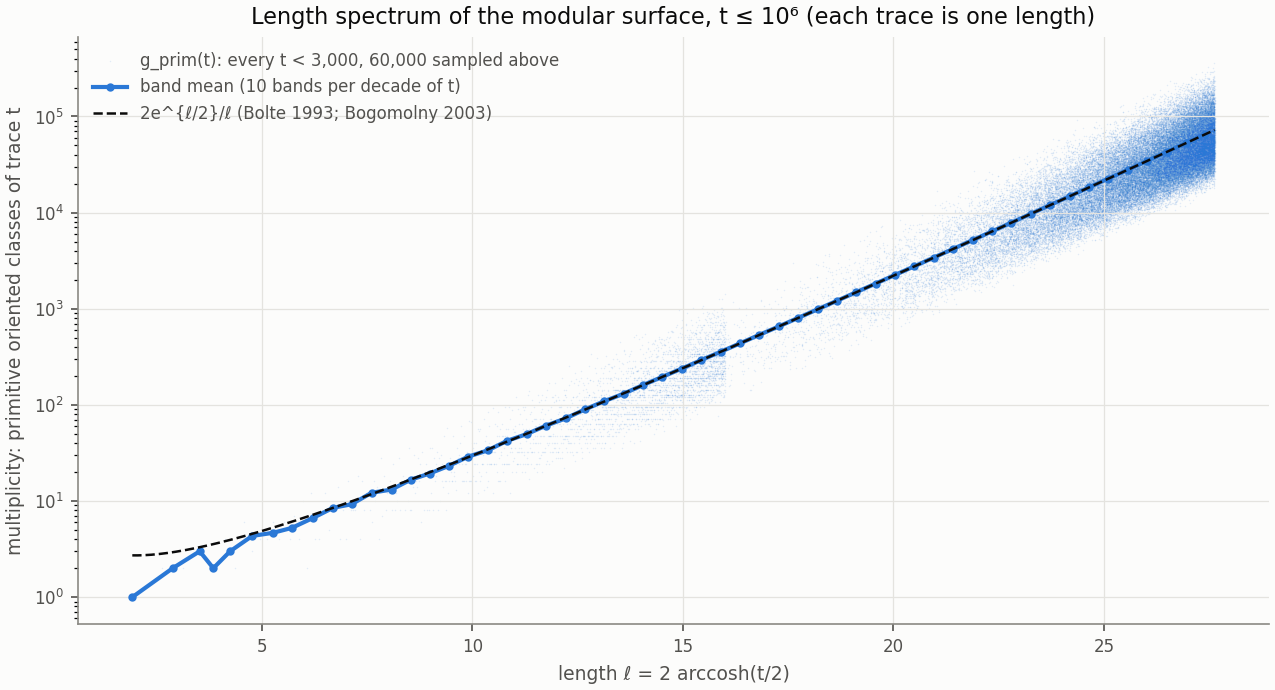
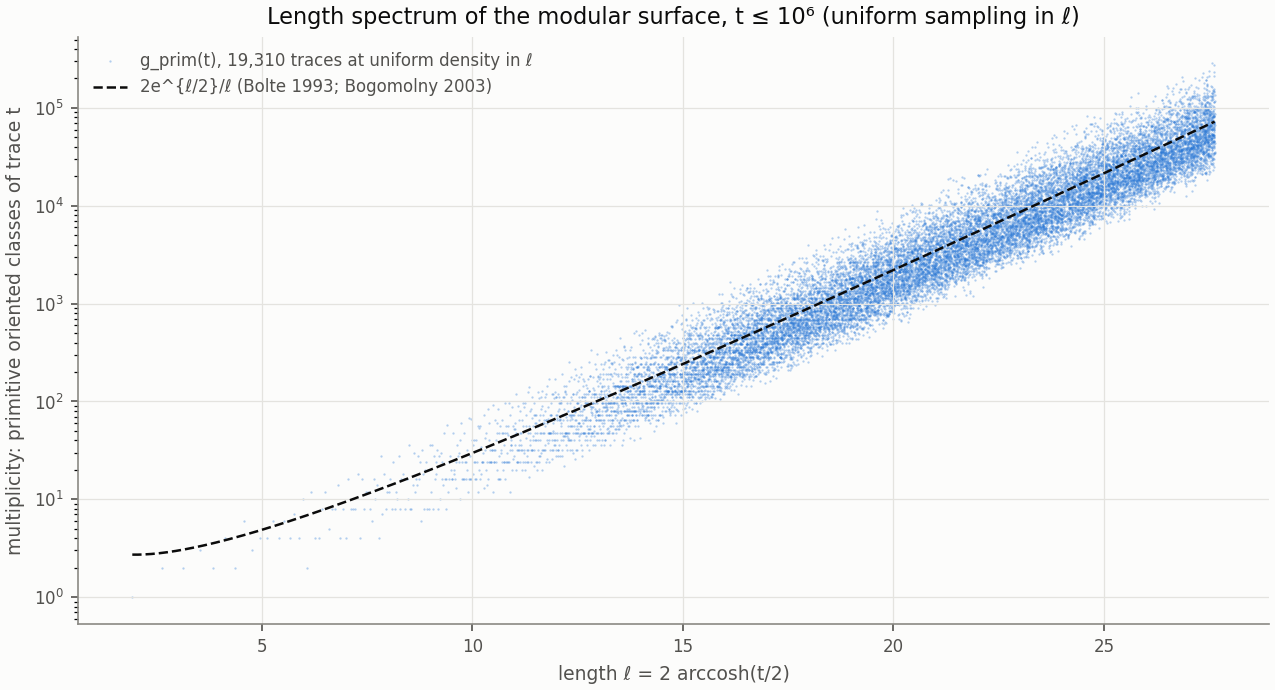
specarith/geo1: Step 0b for the Peter-correlation seal (agent transcription of Peter 2002 from the LaTeX source, theorem block confirmed verbatim here; BLS/Bogomolny odd-prime-power prefactor misprint noted; SY 25/36 verified, Kaneko 2/3 preprint only). Step 2 additions (descriptive): PGT remainder 

diff --git a/specarith/geo1/step0b_scripts/check_local.py b/specarith/geo1/step0b_scripts/check_local.py
@@ -1,0 +1,76 @@
+# Cross-check of local factors A_r(q), q = prime power, by an independent route:
+# BLS (CMP 176) eq: alpha(q;r) = q |M_{q,r}| / |M_q|, M_q = SL2(Z/q), M_{q,r} = trace r.
+# beta(a,q) = q^{-1} sum_r alpha(q;r) e(a r/q);  A_r(q) = sum_{(a,q)=1} |beta(a,q)|^2 e(a r / q).
+# Compared against Peter's closed form (theorem, Intro) and BLS's closed form (oddprpower).
+import numpy as np, sys
+from fractions import Fraction
+def trace_counts(q):
+    # count SL2(Z/q) elements by trace, via (a,d) and counting (b,c) with bc = ad-1
+    cnt_bc = np.zeros(q, dtype=np.int64)          # number of (b,c) with b*c = m mod q
+    b = np.arange(q)
+    for bb in range(q):
+        np.add.at(cnt_bc, (bb*b) % q, 1)
+    tot = np.zeros(q, dtype=np.int64)
+    for a in range(q):
+        d = np.arange(q)
+        m = (a*d - 1) % q
+        np.add.at(tot, (a+d) % q, cnt_bc[m])
+    return tot
+def A_route(q):
+    t = trace_counts(q); M = t.sum()
+    alpha = q*t/M
+    r = np.arange(q)
+    from math import gcd
+    A = np.zeros(q)
+    for a in range(1,q+1):
+        if gcd(a,q)!=1: continue
+        beta = (alpha*np.exp(2j*np.pi*a*r/q)).sum()/q
+        A += (abs(beta)**2*np.exp(2j*np.pi*a*r/q)).real
+    return A
+def leg(x,p):
+    x%=p
+    if x==0: return 0
+    return 1 if pow(x,(p-1)//2,p)==1 else -1
+def A_peter(r,p,b):
+    if p>2:
+        if b==1:
+            s=sum(leg((n*n-4)*((n+r)**2-4),p) for n in range(p))
+            return (p*s-1)/(p*p-1)**2
+        pb=p**b; e=leg(-1,p)**b; pre=1/((p*p-1)**2*p**(3*b-4))
+        if r%pb==0: v=2*pb*(1-1/p)
+        elif r%(pb//p)==0: v=-2*p**(b-1)
+        elif (r-4)%pb==0 or (r+4)%pb==0: v=e*pb*(1-1/p)
+        elif (r-4)%(pb//p)==0 or (r+4)%(pb//p)==0: v=-e*p**(b-1)
+        else: v=0
+        return pre*v
+    else:
+        if b==1: return (1 if r%2==0 else -1)/9
+        if b==2: return (1 if r%4==0 else (-1 if r%4==2 else 0))/18
+        if b in (3,5): return 0.0
+        if b==4: return (1 if r%16==0 else (-1 if r%16==8 else 0))/(9*16)
+        pb=2**b; pre=1/(9*2**(2*b-4)); rr=r%pb
+        if rr==0: return 2*pre
+        if rr==pb//2: return -2*pre
+        if rr in ((4+pb//4)%pb, (-(4+pb//4))%pb): return pre
+        if rr in ((4+pb//4+pb//2)%pb, (-(4+pb//4+pb//2))%pb): return -pre
+        return 0.0
+def A_bls(r,p,n):   # odd p, n>=2, BLS eq (oddprpower)
+    pn=p**n; eps=-1 if (n%2==1 and p%4==3) else 1
+    pre=1/(p**(2*n)*(1-p**-2))
+    if r%pn==0: v=2*(1-1/p)
+    elif r%(pn//p)==0: v=-2/p
+    elif (r-4)%pn==0 or (r+4)%pn==0: v=eps*(1-1/p)
+    elif (r-4)%(pn//p)==0 or (r+4)%(pn//p)==0: v=-eps/p
+    else: v=0
+    return pre*v
+if __name__=="__main__":
+    for p,bmax in [(2,7),(3,4),(5,3),(7,2),(11,2),(13,2)]:
+      for b in range(1,bmax+1):
+          q=p**b; A=A_route(q)
+          dP=max(abs(A[r]-A_peter(r,p,b)) for r in range(q))
+          line=f"p={p} b={b} q={q}: max|route-Peter|={dP:.2e}"
+          if p>2 and b>=2:
+              dB=max(abs(A[r]-A_bls(r,p,b)) for r in range(q))
+              ratio=A[0]/A_bls(0,p,b)
+              line+=f"  max|route-BLS|={dB:.2e}  route/BLS at r=0: {ratio:.6f} (1/(1-p^-2)={1/(1-p**-2):.6f})"
+          print(line); sys.stdout.flush()

diff --git a/specarith/geo1/step0b_scripts/gamma_pred.py b/specarith/geo1/step0b_scripts/gamma_pred.py
@@ -1,0 +1,32 @@
+# Peter's Euler product gamma(r)+1 = prod_p (1 + sum_{b>=1} A_r(p^b)), evaluated numerically.
+import numpy as np, sys
+sys.path.insert(0, sys.argv[1])
+from check_local import A_peter
+P=int(sys.argv[2]); R=list(range(0,int(sys.argv[3])+1))
+sieve=np.ones(P+1,bool); sieve[:2]=False
+for i in range(2,int(P**.5)+1):
+    if sieve[i]: sieve[i*i::i]=False
+primes=np.nonzero(sieve)[0]
+logprod={r:0.0 for r in R}
+for p in primes:
+    p=int(p)
+    if p>2:
+        n=np.arange(p,dtype=np.int64)
+        chi=np.full(p,-1,np.int64); chi[(n*n)%p]=1; chi[0]=0
+        base=(n*n-4)%p
+    for r in R:
+        if p==2:
+            s=sum(A_peter(r,2,b) for b in range(1,64))
+        else:
+            v=(base*(((n+r)*(n+r)-4)%p))%p
+            S=int(chi[v].sum())
+            s=(p*S-1)/(p*p-1)**2
+            b=2
+            while True:
+                pb1=p**(b-1)
+                if r!=0 and pb1>abs(r)+4: break
+                if r==0 and p**(-2*b)<1e-20: break
+                s+=A_peter(r,p,b); b+=1
+        logprod[r]+=np.log1p(s)
+for r in R:
+    print(r, f"{np.expm1(logprod[r]):.6f}")

diff --git a/specarith/geo1/step0b_scripts/check_kloost.py b/specarith/geo1/step0b_scripts/check_kloost.py
@@ -1,0 +1,20 @@
+import numpy as np, sys
+sys.path.insert(0, sys.argv[1])
+from check_local import trace_counts
+from math import gcd
+def primes_of(q):
+    s=set(); n=q; d=2
+    while d*d<=n:
+        while n%d==0: s.add(d); n//=d
+        d+=1
+    if n>1: s.add(n)
+    return s
+for q in [2,3,4,5,6,8,9,12,15,16,25,27,30,32,49]:
+    t=trace_counts(q); alpha=q*t/t.sum(); r=np.arange(q); md=0
+    pf=np.prod([1-w**-2 for w in primes_of(q)])
+    for a in range(1,q):
+        if gcd(a,q)!=1: continue
+        beta=(alpha*np.exp(2j*np.pi*a*r/q)).sum()/q
+        K=sum(np.exp(2j*np.pi*(a*d+a*pow(d,-1,q))/q) for d in range(1,q) if gcd(d,q)==1)
+        md=max(md,abs(beta-K/(q*q*pf)))
+    print(q, f"{md:.2e}")

diff --git a/specarith/geo1/GEO1_STEP0B_PETER.md b/specarith/geo1/GEO1_STEP0B_PETER.md
@@ -1,0 +1,144 @@
+<!-- Provenance: Step 0b for the GEO1 Peter-correlation seal (Will, 2026-10-30). Drafted by a literature agent from
+the arXiv LaTeX sources; filed unedited below. Main-session check: Peter's theorem block (arXiv math/0104234 v1, e-print
+lines 156–200: g(n), α(n) = g(n) log n/n, α̃ = α − 1, γ(r) as the plain mean, the Euler product, A_r(p), A_r(p^b) for odd
+p, and A_r(2), A_r(4), A_r(8) = 0, A_r(16), A_r(32) = 0, A_r(2^b) for b ≥ 6) read verbatim: CONFIRMED as transcribed.
+The agent's check scripts are in step0b_scripts/ (they ran from its scratch directory). The γ(r) table is the agent's
+evaluation, to be reproduced independently by geo1_peter.py before use. -->
+
+# Peter (CMP 225, 2002) transcription, BLS comparison, and the PGT exponent
+
+Source read: the arXiv e-print LaTeX `ccg.tex` for math/0104234, **v1 only** (25 Apr 2001, the only version). The CMP version (DOI 10.1007/s002201000574; Crossref gives CMP 225(1), 171–189, 2002) was not read. Numbering below is reconstructed from the LaTeX counters (`\theequation` = section.eq, theorems numbered within section), so printed page numbers are not given. Downloads are in `/tmp/claude-1000/-home-combust-fmexplorer-criticality-tool--claude-worktrees-ph6-xp/a91f0f2e-c26b-4e53-81dc-2feedac9a4b5/scratchpad/lit_peter/`. Check scripts are in `/tmp/claude-1000/-home-combust-fmexplorer-criticality-tool--claude-worktrees-ph6-xp/a91f0f2e-c26b-4e53-81dc-2feedac9a4b5/scratchpad/peter_check/`.
+
+## Task 1: Peter
+
+### (a) Definitions (VERIFIED, §1 Introduction and §2)
+
+> "let $\HH$ be the complex upper half plane and $\Gamma:=\SL(2,\Z)$ … The closed geodesics on $F$ are in one-to-one correspondence to conjugacy classes of primitive hyperbolic elements in $\Gamma$. For $n\in\N$, $n>2$, let $g(n)$ be the number of closed geodesics on $F$ which correspond to primitive conjugacy classes with trace $n$. Set $\alpha(n):=g(n)\log n/n$. Then the function $\alpha$ has mean value $1$. Set $\tilde{\alpha}(n):=\alpha(n)-1$."
+
+- **Primitive only.** g(n) counts closed geodesics (primitive classes), with n > 2. Your summary α(n) = g(n) log n / n is **confirmed**: there is no extra normalising constant. M(α) = 1 is proved in §5 (Case 1: $\wh{\beta_{(p)}}(0)=1$).
+- **Class-number form**, eq. (2.1), `\label{1}`: $\alpha(n) = \frac{\log n}{n} \sum_{d:\,\tr(\eps_d)=n} h(d)$. This comes from Prop. 2.1 ([Sarnak 1982], Cor. 1.5): "the lengths of closed geodesics on $F$ are the numbers $2\log\eps_d$ with multiplicities $h(d)$". Here d runs over positive non-square discriminants. h(d) is the number of SL(2,ℤ)-classes of primitive forms of discriminant d (the narrow class number), $\eps_d=(u_d+v_d\sqrt d)/2$ is the fundamental solution of $u^2-dv^2=4$, and $\tr(\eps_d)=u_d$.
+- **INFERENCE: PSL and orientation.** Because g counts geodesics on F, ±P count once, so this is effectively PSL(2,ℤ) with |trace| = n. Because h(d) counts SL(2,ℤ)-classes of forms, geodesics are **oriented** (a geodesic and its reverse are counted separately).
+- Peter's text has a typo: it says $\cosh(l/2)=|\Tr P|$, but it should be $2\cosh(l/2)$. Bogomolny's notes use $|\mathrm{Tr}M|=2\cosh l_p/2$.
+- **INFERENCE: implementation freedom from Lemma 3.1 (`\label{102}`).** The lemma shows $\|\alpha-\beta\|_q=0$, with $\beta(n):=\sum_{d,v\ge1:\,dv^2=n^2-4}\frac1v L(1,\chi_d)$. Here β includes non-primitive classes (l ≥ 2) and the normalisation log ε / √(n²−4). The pointwise difference is $|\beta(n)-\alpha(n)|\ll n^{-1/2+\eps}$. So γ(r) is the same whether you use primitive classes or all classes, and log n/n or the exact normalisation.
+
+### (b) Main theorem (VERIFIED; unnumbered `theoremwithout`, §1)
+
+```latex
+For $r\in \N_0$, the limit
+\[ \gamma(r):=\lim_{N\to\infty} \frac{1}{N} \sum_{2<n\le N} \tilde{\alpha}(n)\tilde{\alpha}(n+r) \]
+exists. Its value is given by
+\[ \gamma(r)+1=\prod_p \Big( 1+\sum_{b\ge 1} A_r(p^b) \Big) , \]
+```
+
+- It is **α̃**, not α.
+- It is a plain unweighted Cesàro mean over 2 < n ≤ N.
+- The Euler product form you gave is **confirmed**.
+- The local factors are defined in §4 (end) as $A_r(p^b) := \sum_{1\le a\le p^b,\, p\nmid a} |\wh{\beta_{(p)}}(a/p^b)|^2 e^{2\pi iar/p^b}$.
+- The route is: α is limit periodic in every $\calD^q$ (Cor. 4.2), then Parseval (eq. (3.1), `\label{2}`) gives $\gamma(r)=\sum_{b\ge1}\sum_{(a,b)=1}|\wh\alpha(a/b)|^2e^{2\pi iar/b}-1$, and $\wh\alpha$ is multiplicative (Lemma 4.3).
+
+### (c) Local factors (VERIFIED, verbatim from the theorem)
+
+```latex
+where for a prime $p>2$ and $b\ge 2$, we have
+A_r(p) &= \frac{1}{(p^2-1)^2} \bigg( p\sum_{n\,\bmod\,p} \Big(\frac{(n^2-4)((n+r)^2-4)}{p}\Big)-1 \bigg),\\
+A_r(p^b) &= \frac{1}{(p^2-1)^2 \, p^{3b-4}} \left\{\begin{array}{ll}
+  2p^b(1-1/p) , & r\equiv 0\,(p^b) \\
+  -2p^{b-1} , & r\not\equiv 0\,(p^b),\, r\equiv 0\,(p^{b-1}) \\
+  \big(\frac{-1}{p}\big)^bp^b(1-1/p) , & r\equiv \pm 4\,(p^b) \\
+  -\big(\frac{-1}{p}\big)^bp^{b-1} , & r\not\equiv \pm 4\,(p^b),\, r\equiv\pm 4\, (p^{b-1}) \\
+  0 , & \text{otherwise} \end{array}\right\} .
+Furthermore, for $b\ge 6$, we have
+A_r(2) = \frac{1}{9}\{ 1, r\equiv 0\,(2);\ -1, r\equiv 1\,(2)\},\quad
+A_r(4) = \frac{1}{18}\{ 1, r\equiv 0\,(4);\ -1, r\equiv 2\,(4);\ 0, r\equiv 1\,(2)\},
+A_r(8)=0,\quad
+A_r(16) = \frac{1}{9\cdot 16}\{ 1, r\equiv 0\,(16);\ -1, r\equiv 8\,(16);\ 0, r\not\equiv 0\,(8)\},\quad
+A_r(32)=0,
+A_r(2^b) = \frac{1}{9\cdot 2^{2b-4}}\{ 2, r\equiv 0\,(2^b);\ -2, r\equiv 2^{b-1}\,(2^b);\
+  1, r\equiv\pm(4+2^{b-2})\,(2^b);\ -1, r\equiv\pm(4+2^{b-2}+2^{b-1})\,(2^b);\ 0, \text{otherwise}\}.
+```
+
+(The p = 2 `array` environments are condensed to braces here; the values and conditions are verbatim.)
+
+- The Legendre symbol is the ordinary one. §5 also uses $\sum_{n \bmod p}\big(\frac{n^2-4}{p}\big)=-1$, and finds that the counts of n mod p with $\chi_{n^2-4}(p)=+1$ and $-1$ are (p−3)/2 and (p−1)/2.
+- §5 gives, for c ≥ 2, $|\wh{\beta_{(p)}}(a/p^c)|=\frac{|1+(\frac{-1}{p})^c e^{-8\pi ia/p^c}|}{(p^2-1)p^{3c/2-2}}$. Then $A_r(p^c)=\frac{1}{(p^2-1)^2p^{3c-4}}\sum_{p\nmid a}e^{2\pi iar/p^c}\big(2+2(\frac{-1}{p})^c\cos\frac{8\pi a}{p^c}\big)$, which is two Ramanujan sums.
+- **p = 2 is stated, not derived.** Peter writes: "The calculation will only be done for $p>2$. The case $p=2$ is similar but somewhat more elaborate."
+- There is a harmless typo in §5 Case 4.1: cos(2πa/p^c) should be cos(4πa/p^c).
+- **Independent check (INFERENCE, my computation).** I computed A_r(q) a second way, from BLS's own formula: $\alpha(q;r)=q|M_{q,r}|/|M_q|$ (counting SL₂(ℤ/q) elements by trace), $\beta(a,q)=q^{-1}\sum_r\alpha(q;r)e(ar/q)$, $A_r(q)=\sum_{(a,q)=1}|\beta|^2e(ar/q)$. Peter's closed forms match to ≤ 2e-16 for every r and:
+  - q = 2^b, b = 1..7 (this covers the zeros at 8 and 32 and the b ≥ 6 rule);
+  - 3^b, b ≤ 4;
+  - 5^b, b ≤ 3;
+  - 7², 11², 13².
+- **No γ values in Peter** (VERIFIED: the paper has no numbers, tables or figures).
+- **My evaluation of Peter's product (INFERENCE; for checking your implementation).** Primes up to 10⁵, all relevant b; P = 10⁴ and P = 10⁵ agree to 1e-5:
+
+  | r | γ(r) |
+  |---|---|
+  | 0 | 0.32836 (= Var α; tail beyond 10⁵ ≈ 1e-6) |
+  | 1 | −0.148608 |
+  | 2 | 0.033126 |
+  | 3 | −0.089954 |
+  | 4 | 0.138080 |
+  | 5 | −0.096516 |
+  | 6 | 0.053178 |
+  | 7 | −0.115483 |
+  | 8 | 0.135079 |
+  | 9 | −0.092211 |
+  | 10 | 0.060336 |
+  | 11 | −0.140516 |
+  | 12 | 0.195118 |
+
+  For r = 0, $A_0(p)=(p(p-2)-1)/(p^2-1)^2$. These values come only from the formula; I computed no multiplicity data.
+
+### (d) Rate, error terms, conditionality (VERIFIED)
+
+- **No rate of convergence is given for γ(r).** The argument is qualitative: $\lim_P\|\alpha-\beta_P\|_q=0$ (Prop. 3.7 and Cor. 4.2), with bounds such as $(\sum_{v>P}v^{-q'})^{1/q'}+(\sum_{l>P^{2q}}\tau_{2q}(l)/(lK(l)))^{1/(2q)}$ and no N-rate. The only explicit pointwise error is $|\beta-\alpha|\ll n^{-1/2+\eps}$ (Lemma 3.1).
+- **Limit distribution and moments.** Peter only says limit periodic functions "have mean values and limit distributions". Nothing is computed beyond M(α) = 1 and $\alpha\in\calD^q$ for all q ≥ 1, so all moments exist. INFERENCE: γ(0) is the variance.
+- **Unconditional.** GRH appears only to "see the principle" (eq. (3.7)). Lemma 3.6 (`\label{107}`) "can be proved unconditionally" using zero-density estimates (eq. (3.9), citing Peter, Acta Arith. 70 (1995), Lemma 4.11).
+
+### (e) Numerics
+
+- **Peter: none** (VERIFIED).
+- **BLS** (VERIFIED from the arXiv chao-dyn/9509019 source):
+  - Fig. 2 shows γ(r) "computed from the knowledge of [classes] whose corresponding matrices have traces up to 8000".
+  - "Table 1" gives α(q;r) for q ≤ 11. The table is not in the e-print source, so I did not see it (UNVERIFIED).
+  - The smoothed $\tilde f(x)=\frac1N\sum_{k=0}^N\gamma(k)e^{-\lambda k^2}\cos kx$ uses λ = 3/N² and N = 1000.
+  - $C=\prod_p(1-\frac{1}{p(p+1)})\approx .704$.
+  - As x → 0, $f(x)\to\frac{\pi}{12}x$ and $G(x)\to\frac{\pi}{24}x^2$.
+
+### BLS (CMP 176, 1996) and Bogomolny (nlin/0312061) versus Peter
+
+- **Same object and same Euler product.** BLS (VERIFIED) define $\gamma(r)=\lim\frac1N\sum_{n=1}^N\tilde\alpha(n)\tilde\alpha(n+r)$ (eq. "gr", §2) and $\gamma(r)=\sum_{(p,q)=1}|\beta(p,q)|^2e^{2\pi ipr/q}$, where $\beta(p,q)=q^{-1}\sum_r\alpha(q;r)e^{2\pi ipr/q}$ and $\alpha(q;r)=q|M_{q,r}|/|M_q|$ (§3, Hardy–Littlewood heuristic). Their A_r(p) and all p = 2 formulas are **identical to Peter's**. Their $\epsilon(n,p)$ (−1 iff n is odd and p ≡ 3 mod 4) equals $(\frac{-1}{p})^n$. Bogomolny's notes say "In [Peter] these formulas were proved by a different method."
+- **Misprint in BLS and the notes for odd p, n ≥ 2 (INFERENCE, verified numerically).** Both print
+  $A_r(p^n)=\frac{1}{p^{2n}(1-p^{-2})}\{2(1-1/p);\ -2/p\ (r\equiv tp^{n-1});\ \epsilon(n,p)(1-1/p)\ (r\equiv\pm4);\ -\epsilon(n,p)/p\ (r\equiv\pm4+tp^{n-1})\}$.
+  This is smaller than Peter's value **by exactly the factor (1−p⁻²)**: the prefactor should be $(1-p^{-2})^2$. BLS's own $|M_{q,r}|$ route gives Peter's value, not the printed one (ratio 1.125 at p = 3, 1.0417 at p = 5, …). **Do not code the BLS/Bogomolny printed odd-prime-power formula.**
+- **Other differences:**
+  - BLS write $\prod_p(1+\sum_{k=0}^\infty A_r(p^k))-1$, where k = 0 is a typo for k ≥ 1.
+  - The notes define γ with α instead of α̃ and write $\gamma(r)=\prod_p(1+\sum_{k\ge1}A_r(p^k))$ with no −1. So the notes' γ equals Peter's γ + 1.
+- **Kloosterman form (notes §"Explicit Formulas"; VERIFIED and numerically checked for q ≤ 49 including composites):** $\beta(p,q)=\frac{S(p,p;q)}{q^2\prod_{\omega|q}(1-\omega^{-2})}$.
+- **Form factor:**
+  - BLS: $K(t)=\frac{1}{\pi^2w}f(w)$ with $w=2ke^{-k|t|/2}$, and $K\to\frac1{2\pi}\langle d\rangle$ with ⟨d⟩ = 1/6.
+  - The notes: $K(t)\to A/(4\pi)$ with A = π/3, and $t_{p,q}=\frac1k\ln\frac{kq}{\pi p}$.
+  - The two use different normalisations (UNVERIFIED which one is consistent).
+- Neither BLS nor the notes give a numerical γ(0) or variance (VERIFIED by grep of both sources; the BLS figures themselves were not viewed).
+
+## Task 2: prime geodesic theorem
+
+- **Soundararajan–Young** (VERIFIED, arXiv:1011.5486 source).
+  - Theorem 1.1: $\pi_\Gamma(x)={\rm li}(x)+O(x^{25/36+\varepsilon})$ and $\Psi_\Gamma(x)=x+O(x^{25/36+\varepsilon})$, with Γ = PSL(2,ℤ).
+  - **x is the norm** $NP=\lambda^2$. INFERENCE: in trace t ≈ √x, the error is $O(t^{25/18+\varepsilon})$.
+  - **Unconditional.** The general bound is $2/3+\theta/6$, with Conrey–Iwaniec θ = 1/6. Their source has "li", not "Li".
+  - **Bibliographic details.** Journal (J. reine angew. Math.), volume 676 and year 2013 are confirmed by Crossref (DOI 10.1515/crelle.2012.002; Crossref gives no pages). Pages 105–120 are SECONDARY: they come from the bibliographies of Kaneko 2024 and Acosta Reche 2026, and Kaneko's also gives MR3028757.
+  - A **corrections note** (Harcos, via Young; read from the Wayback copy, VERIFIED) fixes eq. (16)/(17) and says "the exponents in the main Theorem 1.1 are unaffected".
+- **Earlier bounds** (VERIFIED, SY introduction):
+  - Iwaniec 35/48 (Crelle 349 (1984) 136–159); 2/3 under GLH (Iwaniec's remark);
+  - Luo–Sarnak 7/10;
+  - Cai 71/102 (JTNB 14 (2002) 59–72).
+- **Later claims** (VERIFIED from arXiv metadata and sources):
+  - **Kaneko, arXiv:2402.12133.** v1/v2 claimed 113/164; v3 (1 Apr 2024) claims **2/3+ε unconditional**, and 5/8+ε under GLH for quadratic L-functions. arXiv shows no journal reference.
+  - **Acosta Reche, arXiv:2610.01998 v2** (14 Oct 2026, UCL). It says 25/36 "remains to this day the best unconditional asymptotic". It claims $\eta(1/6)\approx0.69359$, where $\eta(y)=\tfrac12+\frac{\sqrt{81y^2+106y+33}-5-9y}{4}$. Kaneko is in its .bib file but is not cited in the text.
+  - **Hashimoto, arXiv:1912.01223 (9/13): withdrawn** ("includes errors", flagged by Frolenkov).
+  - **Avdispahić:** 2/3 for a Gallagher-type statement, and 5/8 under GLH outside a set of finite logarithmic measure. These are not pointwise bounds.
+  - **Balkanova–Frolenkov** gave an alternative proof of 25/36 (SECONDARY).
+  - **Cherubini–Guerreiro:** mean-square bounds (ANT 12 (2018)). SECONDARY: the square-mean exponent 7/12 is from a search snippet.
+- **Best current unconditional exponent.** The established, refereed bound is **25/36** (SY 2013). Better exponents are claimed only in preprints: Kaneko's 2/3 (2024) and Acosta Reche's ≈0.69359 (2026). The 2026 paper treats 25/36 as still the record, so Kaneko's 2/3 should be cited as "claimed (preprint)". Whether Kaneko's paper was published or confirmed is UNVERIFIED.
+- **Conjectured exponent.** SY (VERIFIED, §1): "it is believed that $E(x)\ll x^{1/2+\epsilon}$, and this remains an outstanding open problem". SY give no attribution for this; the original source is UNVERIFIED.

diff --git a/specarith/geo1/GEO1_STEP2.md b/specarith/geo1/GEO1_STEP2.md
@@ -30,3 +30,21 @@ correlation). A seal on Peter's correlations or on α's distribution should use 
 
 Next in the arc (Will's call): a seal on Peter's multiplicity correlations, on fresh traces beyond 10⁶; and/or the
 Picard stage (PSL(2, ℤ[i]): complex lengths, multiplicities, holonomy angles).
+
+## Additions (Will, 2026-10-30; descriptive) — `geo1_step2b.py`, `results/step2/STEP2B.json`, `results/step2/geo1_rates.png`
+5. **Prime geodesic theorem, remainder rate.** OLS slope of log|Π(T)/Li(x) − 1| on log x, x = ε(T)² (the norm), over
+   T ∈ [10³, 10⁶] (80 log-spaced T; x from 10⁶ to 10¹²): **-0.556 ± 0.022**; the running maximum of |·|
+   (an envelope, less sensitive to sign changes) gives -0.494 ± 0.011.
+   - Compare: −1/2, the conjectured square-root remainder (E(x) ≪ x^{1/2+ε}, as "believed" in Soundararajan–Young
+     2013; original source not traced), against the best proven unconditional bound, Soundararajan–Young, *J. reine
+     angew. Math.* 676 (2013), Thm 1.1 (arXiv:1011.5486): π_Γ(x) = li(x) + O(x^{25/36+ε}) for PSL(2,ℤ), i.e. relative
+     x^{−11/36} = slope −0.306 (VERIFIED from the arXiv source; pages 105–120 SECONDARY). A preprint claim of 2/3
+     (Kaneko, arXiv:2402.12133 v3) is unrefereed (`GEO1_STEP0B_PETER.md`, Task 2).
+   - The data fall at the square-root rate over six decades of x, far below the proven bound's rate. Descriptive.
+6. **Gauss–Kuzmin rate.** TV from Gauss–Kuzmin by band of t (4 bands per decade, t ≈ 10²–3·10⁴): slope of log TV on
+   log t **-1.10 ± 0.02**, i.e. TV ∝ t^{−1.1} (Pollicott gives no rate). In every band the TV is
+   2–3.5× **below** the multinomial sampling floor for the same digit count (median TV of 200 seeded multinomial
+   draws from the Gauss–Kuzmin law): the digits of closed geodesics are more regular than independent sampling.
+   Descriptive.
+7. **Length-spectrum figure** redrawn at uniform density in ℓ (19,310 traces from 40,000 uniform ℓ), so the first
+   version's t = 3,000 switch from every trace to a sample is no longer an edge.
